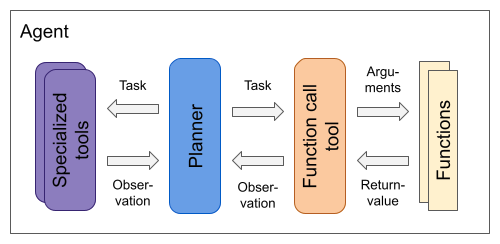
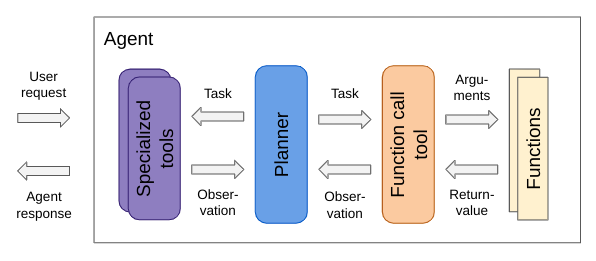
Add section with related work

diff --git a/README.md b/README.md
@@ -11,6 +11,8 @@ This project also provides fully-functional RAG-based [search tools](gba/tools/s
 - Internet search without an API key thanks to [SearXNG](https://github.com/searxng/searxng)
 - Summarization of retrieved documents with Llama-3-8B-Instruct
 
+See also [related work](#related-work).
+
 ## Articles
 
 You can find more details in these articles:
@@ -34,7 +36,7 @@ You can find more details in these articles:
 
 [ReAct](https://arxiv.org/abs/2210.03629)-style agents are often based on LLMs that unify a wide range of responsibilities in a single model. They must be able to decompose complex user instructions, plan actions, call tools with correct arguments, reason about observations and adjust planning if needed. Smaller LLMs often struggle to cover this wide range of responsibilities.
 
-This project is experimental work on separating planning from function calling concerns in ReAct-style LLM agents. This separation makes the planner module of an agent responsible only for describing the task of the next step in an informal way and selecting an appropriate tool for that step, without having to deal with function calling details.
+This project is experimental work on separating planning from function calling concerns in ReAct-style LLM agents. This separation makes the planner module of an agent responsible only for describing the task<sup>1)</sup> of the next step in an informal way and selecting an appropriate tool for that step, without having to deal with function calling details.
 
 The main idea is to reduce the responsibilites of a planner module as far as possible so that smaller LLMs can be better utilized for implementation. Responsibility of translating a task description into a function call is shifted either to a generic function calling model or to individual, specialized tools directly.
 
@@ -43,6 +45,8 @@ The main idea is to reduce the responsibilites of a planner module as far as pos
 With this reduction of planner responsibilities, it is possible to elicit useful planning behavior from 7B LLMs that have not been fine-tuned on function calling at all, and to efficiently [fine-tune a 7B LLM](train/) on synthetic trajectories from an [agent simulation](simulation/) to reach GPT-4 level planning performance.
 
 A stricter separation of concerns in a LLM agent also requires reliable communication among modules. This project therefore makes heavy use of [schema-guided generation](json_mode.ipynb). Modules specify an output JSON schema via a pydantic model which is then converted into a grammar that is enforced by a llama.cpp server during constrained decoding.
+
+<sup>1)</sup> We use a slightly different terminology here compared to other agent frameworks: what we call *user request* is often called *task* in other frameworks, and what we call *task* is often called *action* in other frameworks.
 
 ### Environments
 
@@ -142,3 +146,9 @@ See also [search tools setup](gba/tools/search/README.md#setup) for further deta
 | Fine-tuning dataset        | [krasserm/gba-trajectories](https://huggingface.co/datasets/krasserm/gba-trajectories)          | [simulation docs](simulation/)  |
 | Full simulation data       | [gba-output.zip](https://martin-krasser.com/gba/gba-output.zip)                                 | [simulation docs](simulation/)  |
 | Full evaluation data       | [gba-output-eval.zip](https://martin-krasser.com/gba/gba-output-eval.zip)                       | [simulation docs](simulation/)  |
+
+## Related work
+
+- [ReAct: Synergizing Reasoning and Acting in Language Models](https://arxiv.org/abs/2210.03629). A frequently used paradigm in LLM agents that combines reasoning and tool usage (= acting) in an interleaved manner.
+- [Husky: A Unified, Open-Source Language Agent for Multi-Step Reasoning](https://arxiv.org/abs/2406.06469). Very similar to the *bot-with-plan* project w.r.t. separation of concerns, planner training and dataset generation.
+- [AUTOACT: Automatic Agent Learning from Scratch via Self-Planning](https://arxiv.org/abs/2401.05268). Also decouples planning from function calling by using a planner that only selects tool names for the next step without generating tool arguments.
